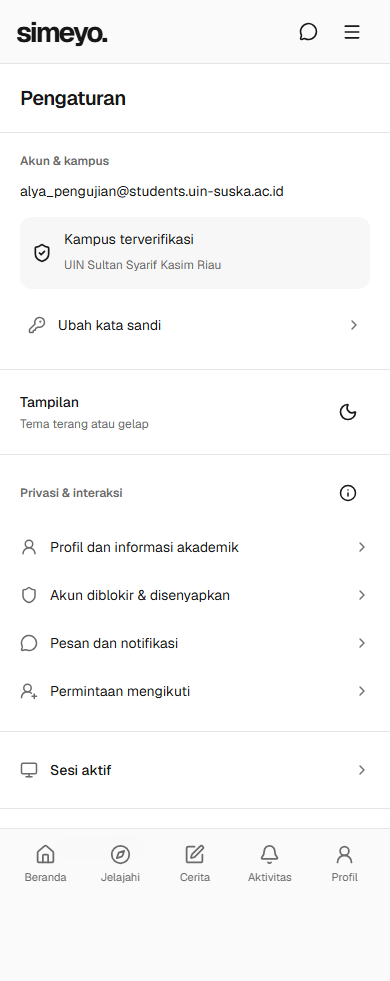
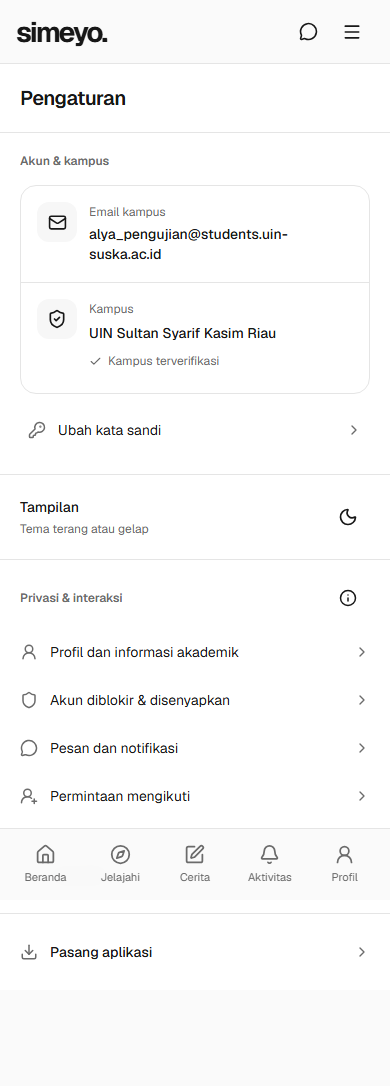
Record verified discovery release and stabilize DM fixture synchronization

diff --git a/apps/web/tests/feed-experience.spec.ts b/apps/web/tests/feed-experience.spec.ts
@@ -186,7 +186,7 @@ test("DM recipient discovery omits empty queries, retries, pages and searches ex
 
 test("explore empty stories offer account search and campus settings keep long identity readable", async ({ page }) => {
   await fixtures(page);
-  const email = "12450310985@students.uin-suska.ac.id";
+  const email = "alyaputri2026@students.uin-suska.ac.id";
   await page.route("**/api/v1/me", route => route.fulfill({ json: { data: { ...user, email } } }));
   await page.route("**/api/v1/search/posts?*", route => route.fulfill({ json: { data: [], meta: { next_cursor: null, has_more: false, feed: "search" } } }));
   for (const theme of ["light", "dark"]) {
@@ -284,6 +284,7 @@ test("DM shows sending and retry states, keeps new text and fits a reduced mobil
   await page.getByLabel("Tulis pesan", { exact: true }).fill("Pesan yang dicoba ulang");
   await page.getByRole("button", { name: "Kirim pesan", exact: true }).click();
   await expect(page.locator("[data-pending-message]").getByRole("status")).toHaveText("Mengirim…");
+  await expect.poll(() => typeof release).toBe("function");
   release!();
   await expect(page.getByRole("button", { name: "Coba kirim lagi", exact: true })).toBeVisible();
   await page.getByLabel("Tulis pesan", { exact: true }).fill("Draf pesan berikutnya");

diff --git a/docs/testing/discovery-2026-10-16.md b/docs/testing/discovery-2026-10-16.md
@@ -11,3 +11,17 @@ Initial web lint/build passed. First 36-case local fixture run passed 35 and fai
 The real-API communications browser case is extended to follow a fictional member, discover that already-followed member with no query, search its underscore username, then create a persisted conversation and exercise realtime. It uses a disposable CI database only, never owner accounts or production messaging mutations. Actual production-account acceptance remains separate.
 
 Final application source passed lint and production build. All six focused local scenarios passed (31.4 seconds), including the corrected empty-result/theme test, new recipient query/error/pagination regression, preserved profile Back search, settings accessibility, existing send retry and six-size/theme Explore matrix. Fresh DM/Explore/settings screenshots were visually inspected. A private pre-release database dump `pre-discovery-20261016T151357Z.dump` passed archive inventory validation; this is not an off-host backup or restore drill.
+
+Application source **5f4e084** is deployed as **discovery-5f4e084** on API/web/worker/Reverb, with gateway recreated. Private environment rollback snapshot and previous images retained. Database/media volumes, keys and provider settings preserved; no migration or seed ran. Trusted server TLS/security/health/CSRF and actual WSS checks passed.
+
+The final full local run passed 35 cases and exposed a pre-existing fixture race in the held DM response: React pending UI could appear before the route handler assigned its release callback. The fixture now explicitly waits for that callback. Three focused repeats passed (11.2 seconds), without application-source changes. Final public presentation checks use that corrected fixture.
+
+Real-API communications run [38922500179](https://github.com/mhmdhabibrafi/simeyo/actions/runs/38922500179) passed **one case (9.7 seconds)**, covering the newly followed member's picker discovery and underscore search, persisted sending, private Reverb, read status and mobile accessibility against disposable PostgreSQL. Standard CI [38922483284](https://github.com/mhmdhabibrafi/simeyo/actions/runs/38922483284) has successful API/web/mobile jobs; production-stack remains pending at this checkpoint. No production account was impersonated or changed for acceptance.
+
+## Final deployed acceptance
+
+All **36 public-assets UI cases passed (2.7 minutes)**, including recipient discovery/pagination/error retry, restored search, empty-result account navigation, account/campus rows, exact browser title and previous accessibility/privacy/profile/media/feed cases. Screenshots were visually inspected. Fixtures use synthetic identities; the settings illustration uses a fictional campus email. One additional focused public repeat refreshes those identity screenshots without touching production accounts.
+
+Standard CI **38922483284 passed all four jobs**, including the PostgreSQL API suite and the isolated production-shaped TLS/WSS/worker stack. The live queue probe passed with zero ready/failed jobs. The real-API communications case above separately verifies persistence and permissions. No production credentials, affiliation status, social relationships or messages were modified by acceptance. Physical-device/provider/mailbox gates are unchanged.
+
+The final follow-up includes only fixture synchronization, fictional identity/artifact updates and documentation; runtime application source remains 5f4e084.

diff --git a/docs/operations/mediasi-server.md b/docs/operations/mediasi-server.md
@@ -1,5 +1,8 @@
 # Mediasi server installation — 2026-10-15
 
+Discovery/settings follow-up (2026-10-16): source 5f4e084 is deployed on API/web/worker/Reverb as discovery-5f4e084, with gateway recreated. Fixed rejected empty DM picker queries and followed-user omission using explicit messaging discovery; added recipient pagination/retry and literal underscore searches. Explore now uses one retained search field, compact filters and actionable empty results; account/campus rows wrap identity cleanly. Browser title is Simeyo without the slogan/em dash. API: 86 tests / 590 assertions; contracts: 5 passed; final local focused UI: 6 passed; all 36 public-assets UI cases passed (2.7 minutes). Exact-source standard CI 38922483284 passed all four jobs, and real-API/PostgreSQL communications run 38922500179 passed its extended case (9.7 seconds). Server TLS/security/health/WSS and queue probe passed, zero ready/failed jobs. Private backup inventory checked; data/keys/media retained, no migration/seed or production account mutations. Full evidence: docs/testing/discovery-2026-10-16.md.
+
+
 Authentication/feed consistency (2026-10-16): source d9193e9 deployed on web as auth-layout-d9193e9; gateway recreated, API/worker/Reverb retain activity-b1bce71. Shared auth header/layout/footer now covers login, registration, recovery and reset, including submitted/error states. Permanent home refresh icon removed; new-story refresh and feed error retry retained. Lint/build, four local auth cases (14.1 seconds), three local feed cases (10.5 seconds), five public auth cases (34.1 seconds) and three public feed cases (14.9 seconds) passed. Fresh screenshots inspected. Server TLS/security/health/CSRF and actual WSS passed. Standard CI 38920378428 has completed web/API checks successfully; remaining jobs are pending at this checkpoint. No API/database/auth credential changes or actual recovery email/account reset performed. Evidence: docs/testing/auth-consistency-2026-10-16.md.
 
 

diff --git a/PROGRESS.md b/PROGRESS.md
@@ -1,5 +1,8 @@
 # Simeyo implementation progress
 
+Discovery/settings follow-up (2026-10-16): source 5f4e084 is deployed on API/web/worker/Reverb as discovery-5f4e084, with gateway recreated. Fixed rejected empty DM picker queries and followed-user omission using explicit messaging discovery; added recipient pagination/retry and literal underscore searches. Explore now uses one retained search field, compact filters and actionable empty results; account/campus rows wrap identity cleanly. Browser title is Simeyo without the slogan/em dash. API: 86 tests / 590 assertions; contracts: 5 passed; final local focused UI: 6 passed; all 36 public-assets UI cases passed (2.7 minutes). Exact-source standard CI 38922483284 passed all four jobs, and real-API/PostgreSQL communications run 38922500179 passed its extended case (9.7 seconds). Server TLS/security/health/WSS and queue probe passed, zero ready/failed jobs. Private backup inventory checked; data/keys/media retained, no migration/seed or production account mutations. Full evidence: docs/testing/discovery-2026-10-16.md.
+
+
 Authentication/feed consistency (2026-10-16): source d9193e9 deployed on web as auth-layout-d9193e9; gateway recreated, API/worker/Reverb retain activity-b1bce71. Shared auth header/layout/footer now covers login, registration, recovery and reset, including submitted/error states. Permanent home refresh icon removed; new-story refresh and feed error retry retained. Lint/build, four local auth cases (14.1 seconds), three local feed cases (10.5 seconds), five public auth cases (34.1 seconds) and three public feed cases (14.9 seconds) passed. Fresh screenshots inspected. Server TLS/security/health/CSRF and actual WSS passed. Standard CI 38920378428 has completed web/API checks successfully; remaining jobs are pending at this checkpoint. No API/database/auth credential changes or actual recovery email/account reset performed. Evidence: docs/testing/auth-consistency-2026-10-16.md.
 
 

diff --git a/README.md b/README.md
@@ -1,5 +1,8 @@
 # Simeyo
 
+Latest DM recipient fix and Explore/settings polish: [verified deployment](docs/testing/discovery-2026-10-16.md).
+
+
 Latest activity/search/DM acceptance: [2026-10-16 report](docs/testing/activity-search-messaging-2026-10-16.md). Physical-device keyboard and OS installation remain untested; browser acceptance is recorded separately.
 
 
